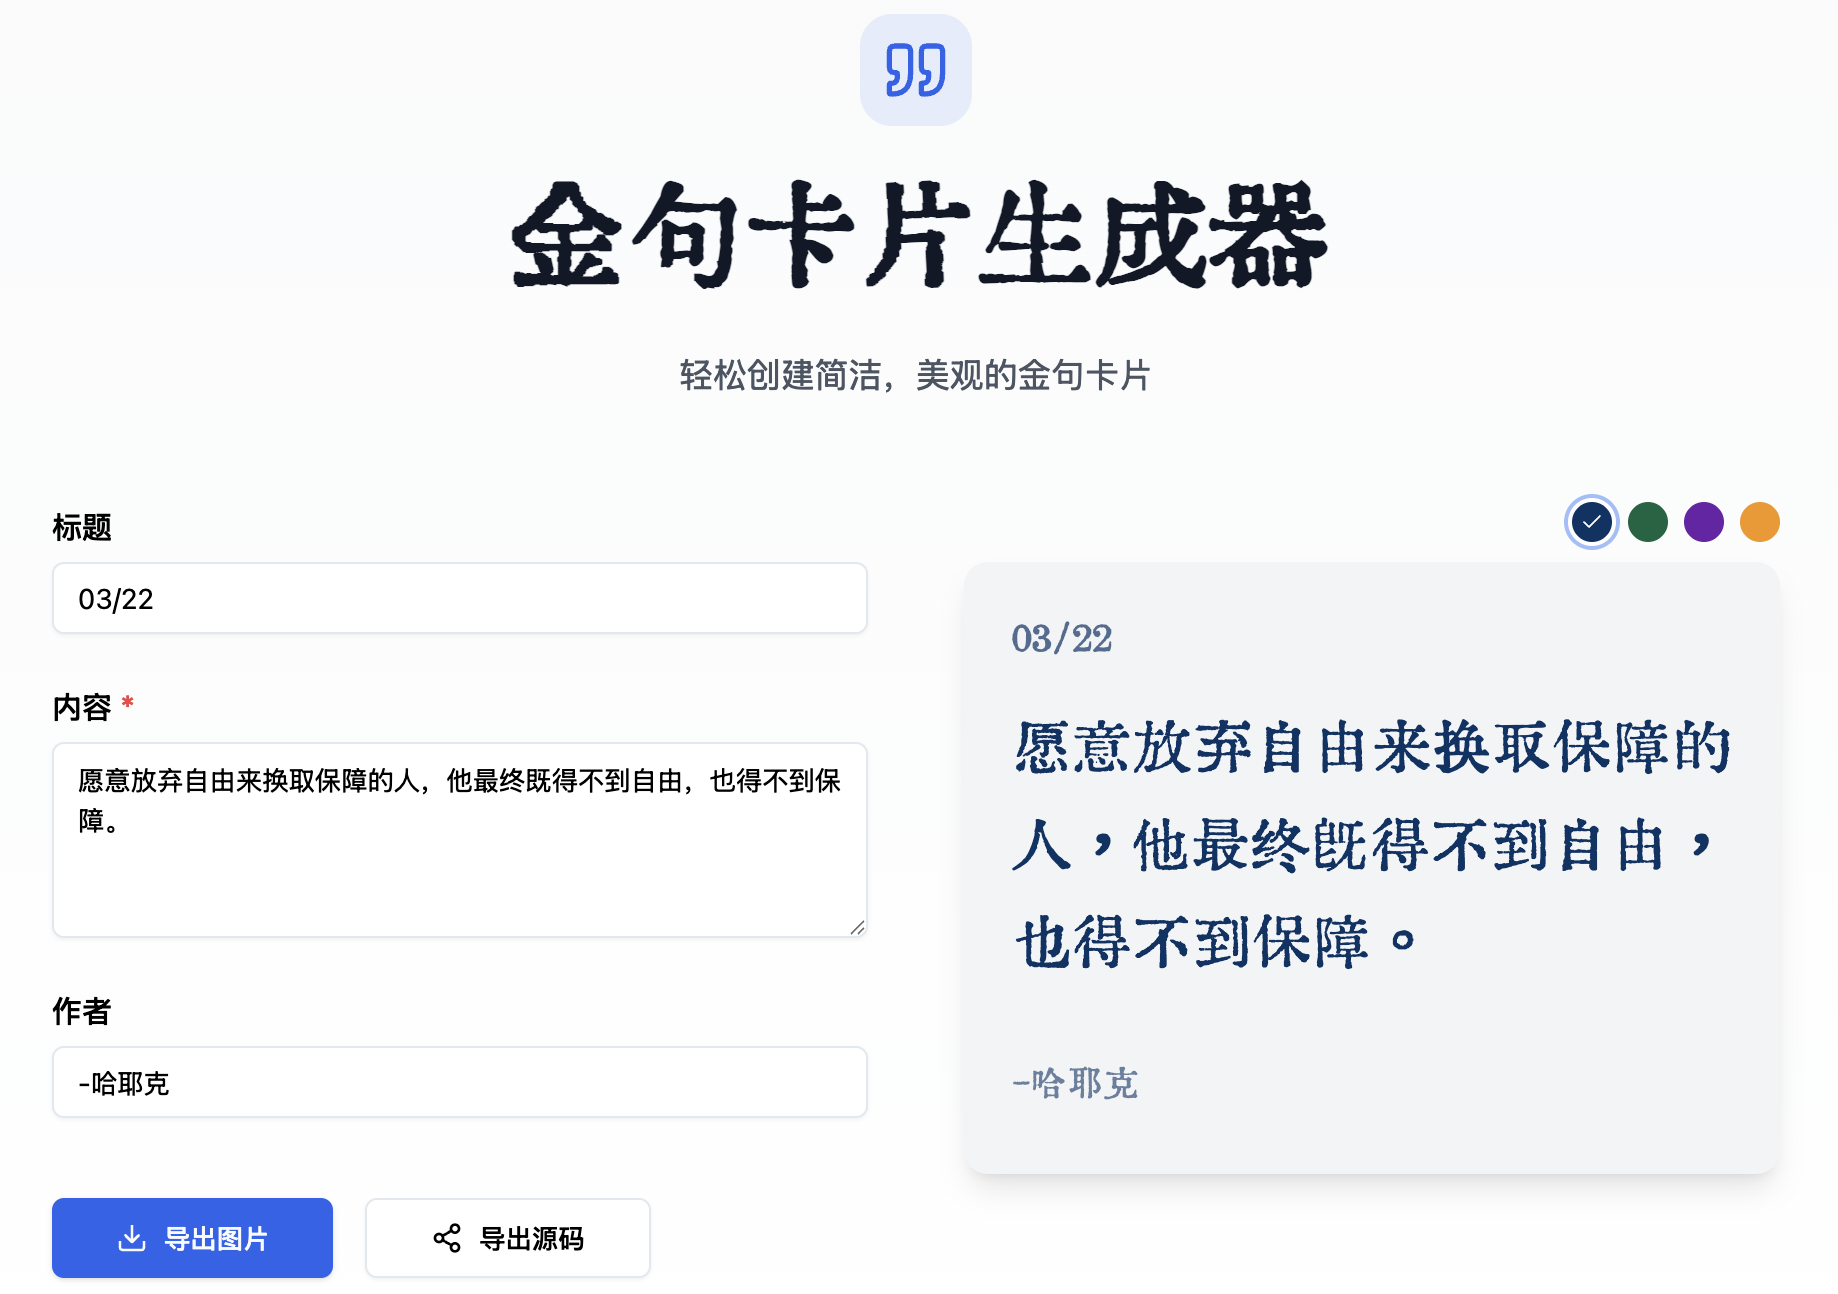
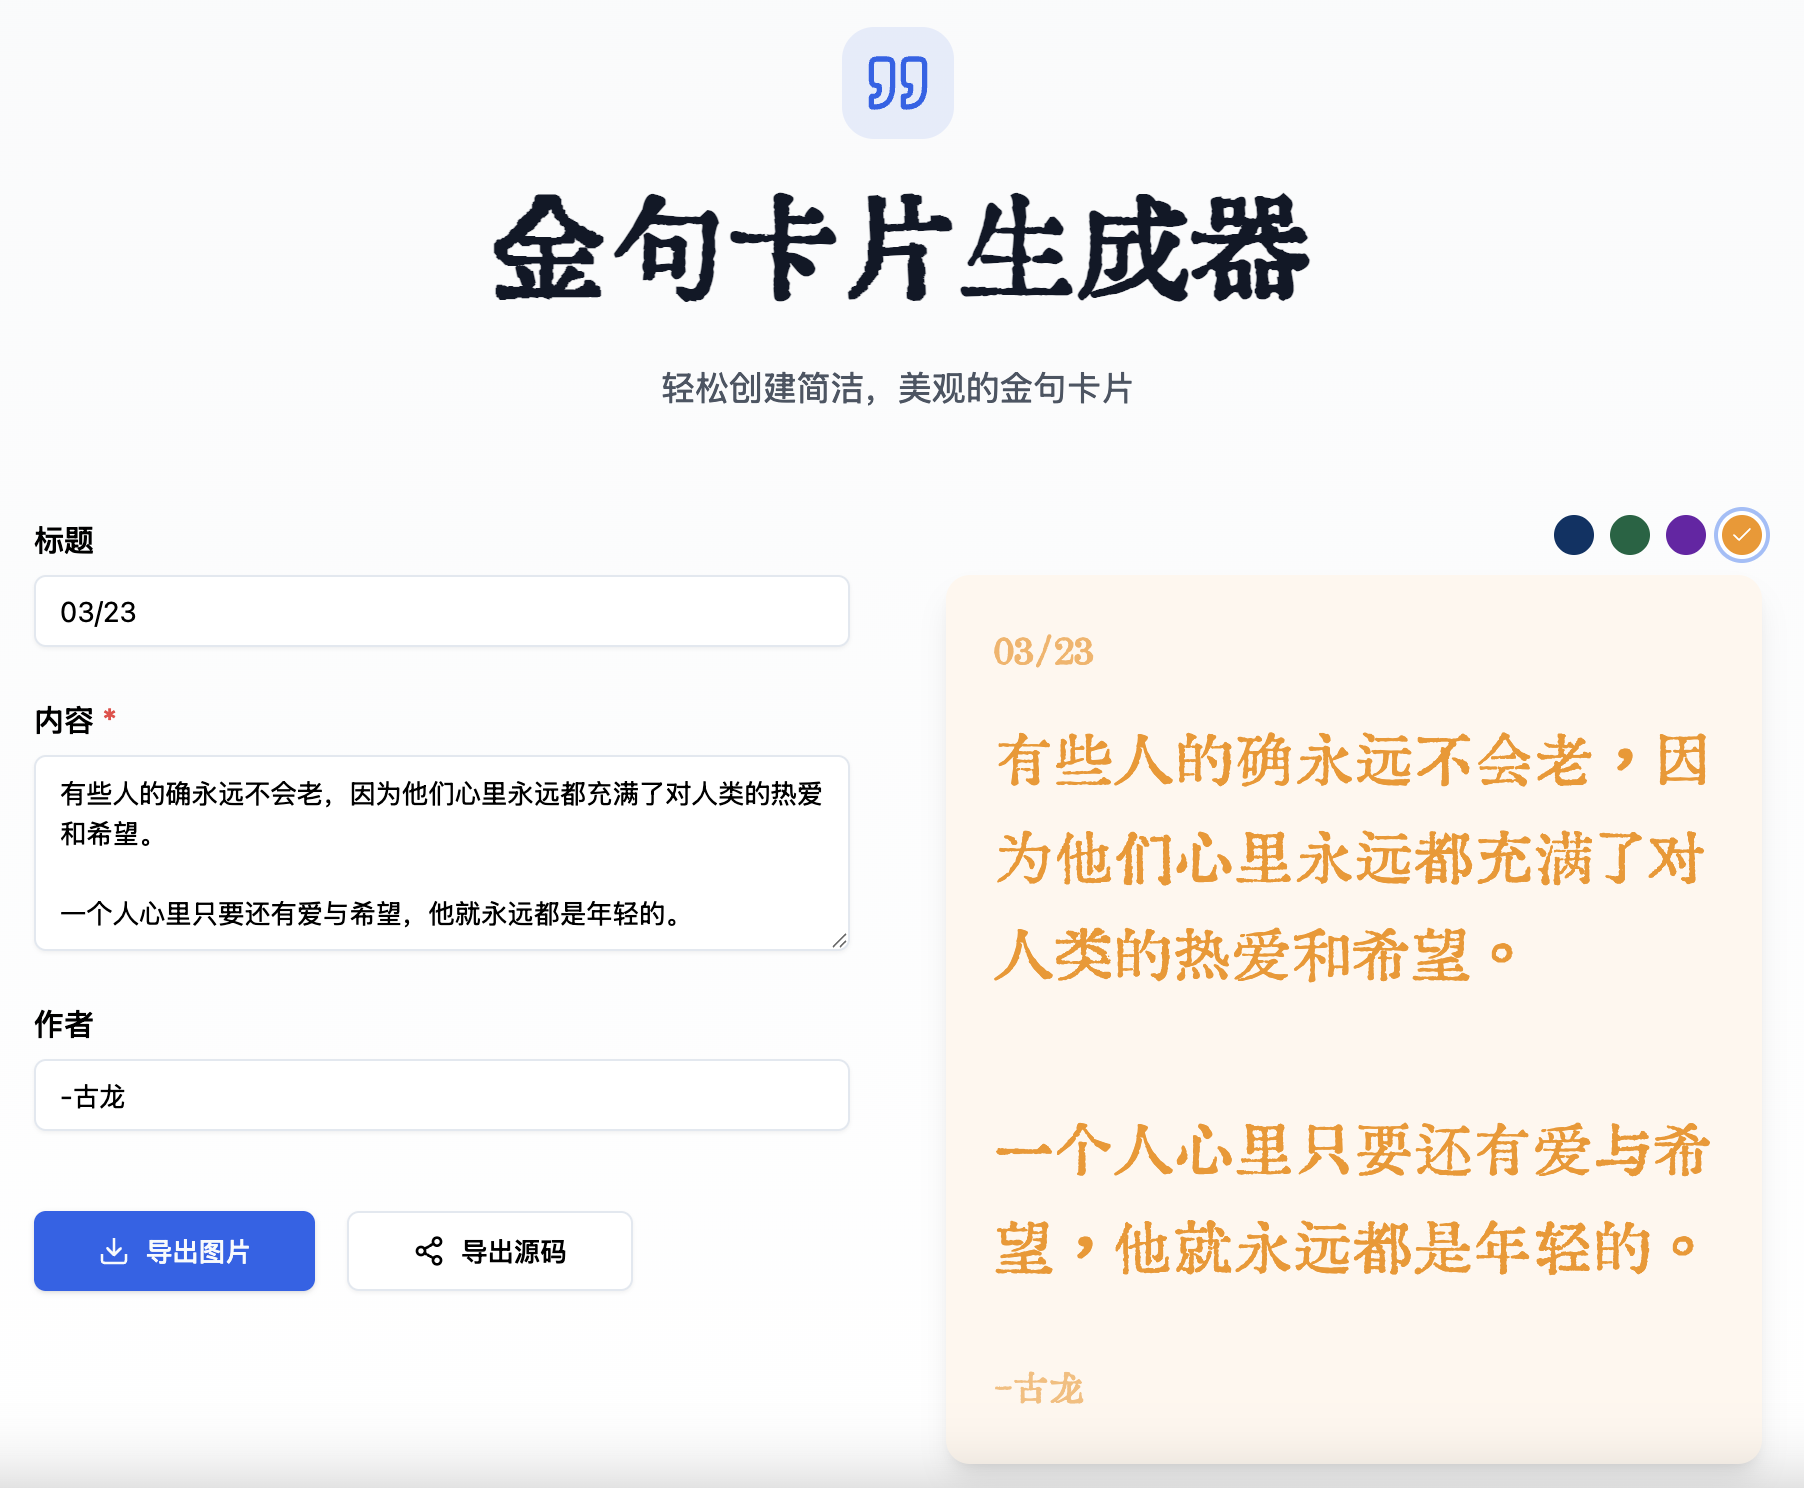
chore: change init value

diff --git a/src/App.tsx b/src/App.tsx
@@ -55,10 +55,15 @@ const themes: Record<Theme, CardTheme> = {
 };
 
 function App() {
-  const [title, setTitle] = useState('03/22');
-  const [content, setContent] = useState('愿意放弃自由来换取保障的人，他最终既得不到自由，也得不到保障。');
-  const [footer, setFooter] = useState('-哈耶克');
-  const [theme, setTheme] = useState<Theme>('blue');
+  const today = new Date();
+  const month = String(today.getMonth() + 1).padStart(2, '0');
+  const day = String(today.getDate()).padStart(2, '0');
+  const [title, setTitle] = useState(`${month}/${day}`);
+  const [content, setContent] = useState(`有些人的确永远不会老，因为他们心里永远都充满了对人类的热爱和希望。
+
+一个人心里只要还有爱与希望，他就永远都是年轻的。`);
+  const [footer, setFooter] = useState('-古龙');
+  const [theme, setTheme] = useState<Theme>('orange');
   const [isExportingImage, setIsExportingImage] = useState(false);
   const [isExportingHtml, setIsExportingHtml] = useState(false);
   const [toast, setToast] = useState<Toast>({ message: '', visible: false });
